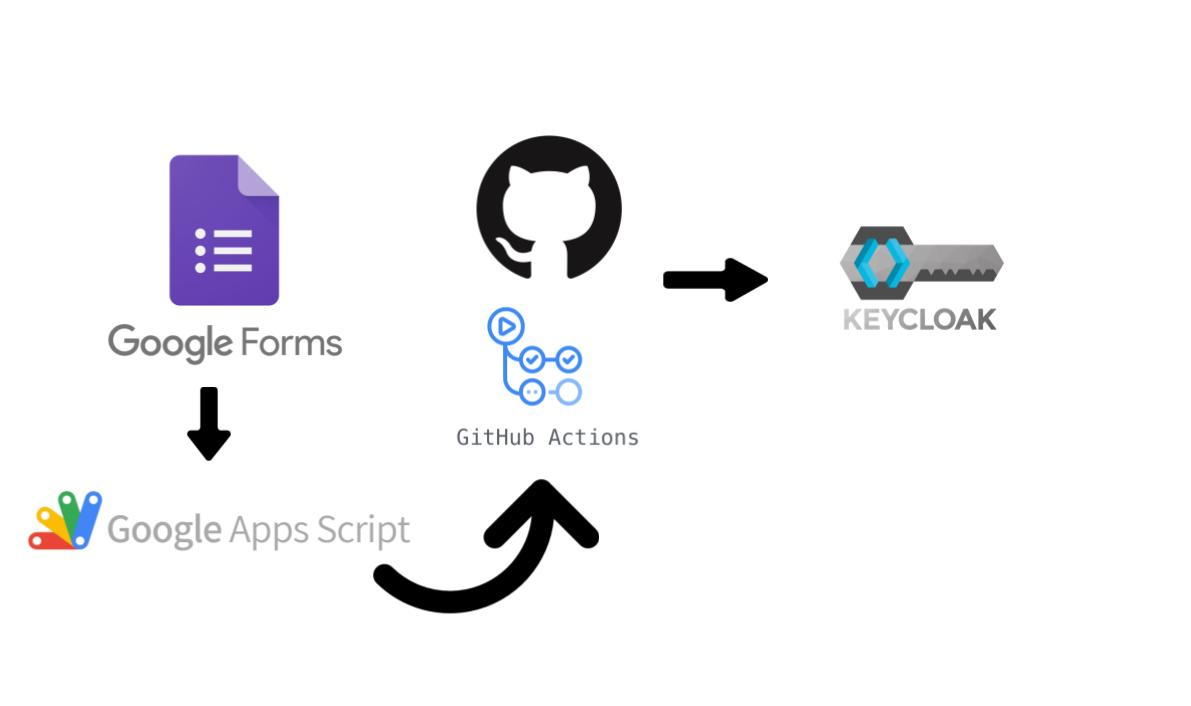
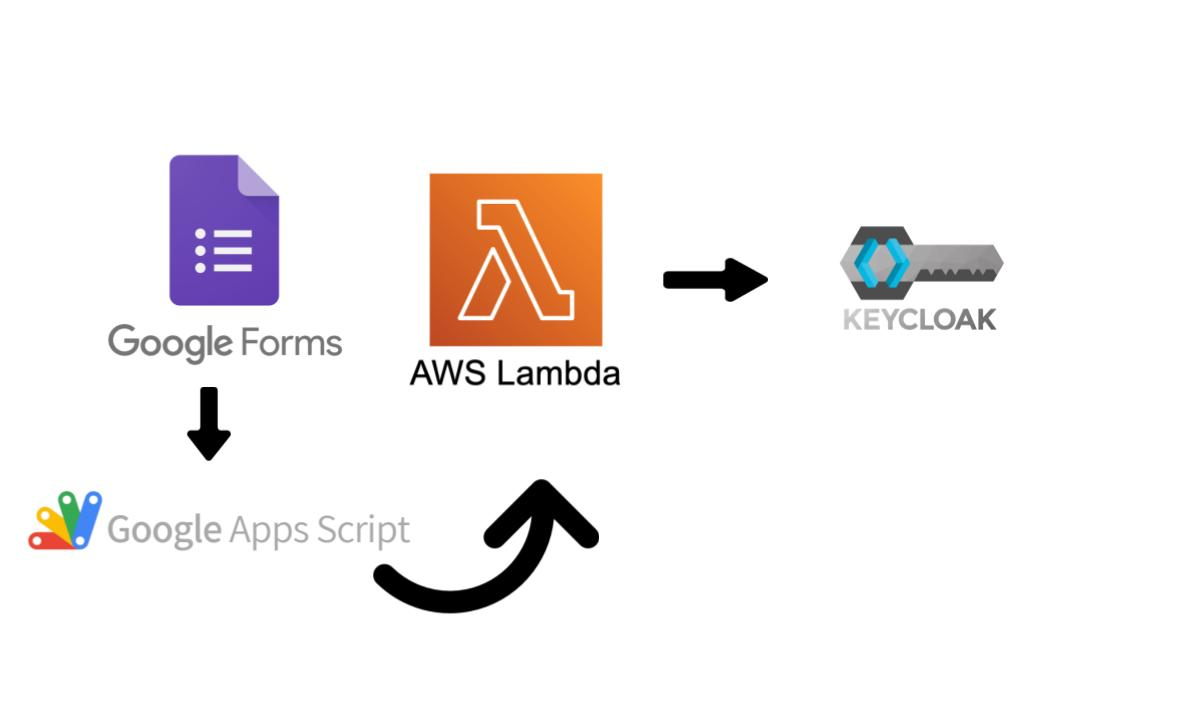
update architecture diagram
- fix deploy lambda

Changed region(s): [[0.3417, 0.187, 0.5281, 0.6544]]

diff --git a/README.md b/README.md
@@ -1,6 +1,6 @@
 # Nebari user's from Google Form
 
-[![User Creation](https://github.com/Quansight/nebari-users-create-from-google-form/actions/workflows/user_create.yml/badge.svg)](https://github.com/Quansight/nebari-users-create-from-google-form/actions/workflows/user_create.yml)
+[![Deploy Lambda](https://github.com/Quansight/nebari-users-create-from-google-form/actions/workflows/deploy_lambda.yml/badge.svg)](https://github.com/Quansight/nebari-users-create-from-google-form/actions/workflows/deploy_lambda.yml)
 [![Deploy AppScript](https://github.com/Quansight/nebari-users-create-from-google-form/actions/workflows/deploy.yml/badge.svg)](https://github.com/Quansight/nebari-users-create-from-google-form/actions/workflows/deploy.yml)
 
 This will create users in Nebari using Keycloak's API.
